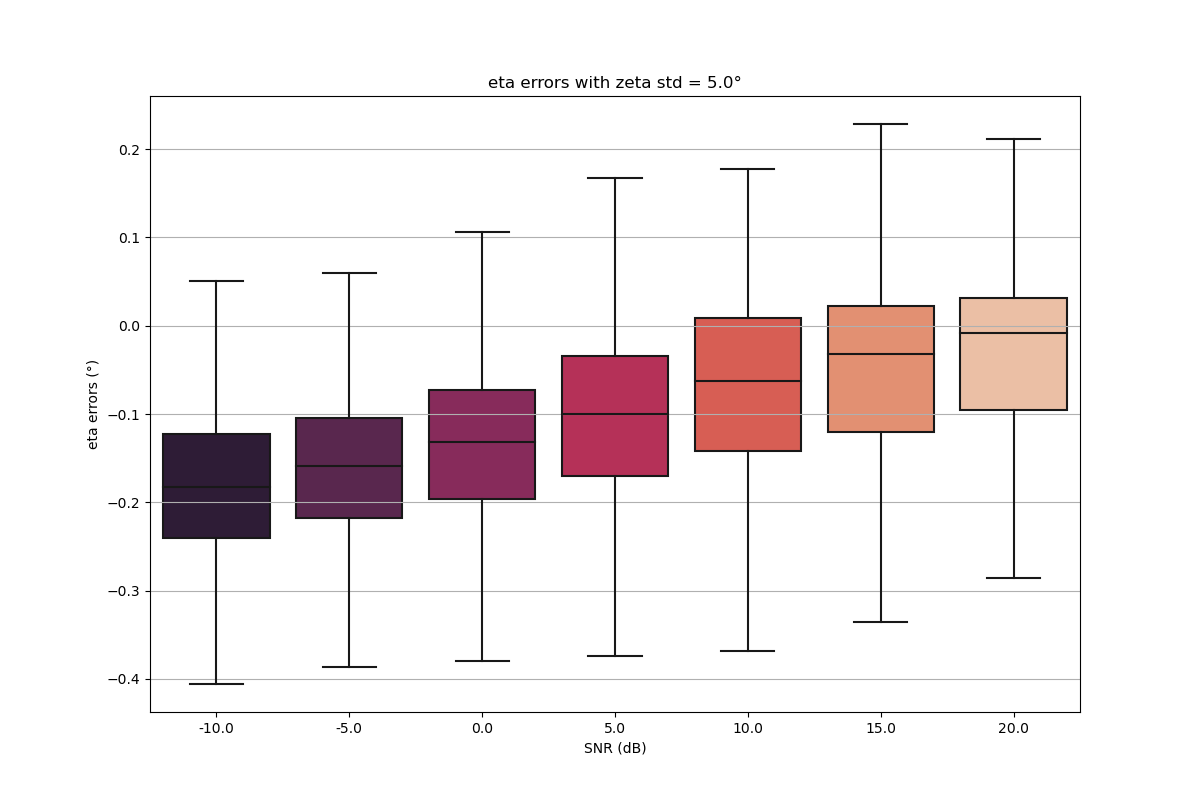
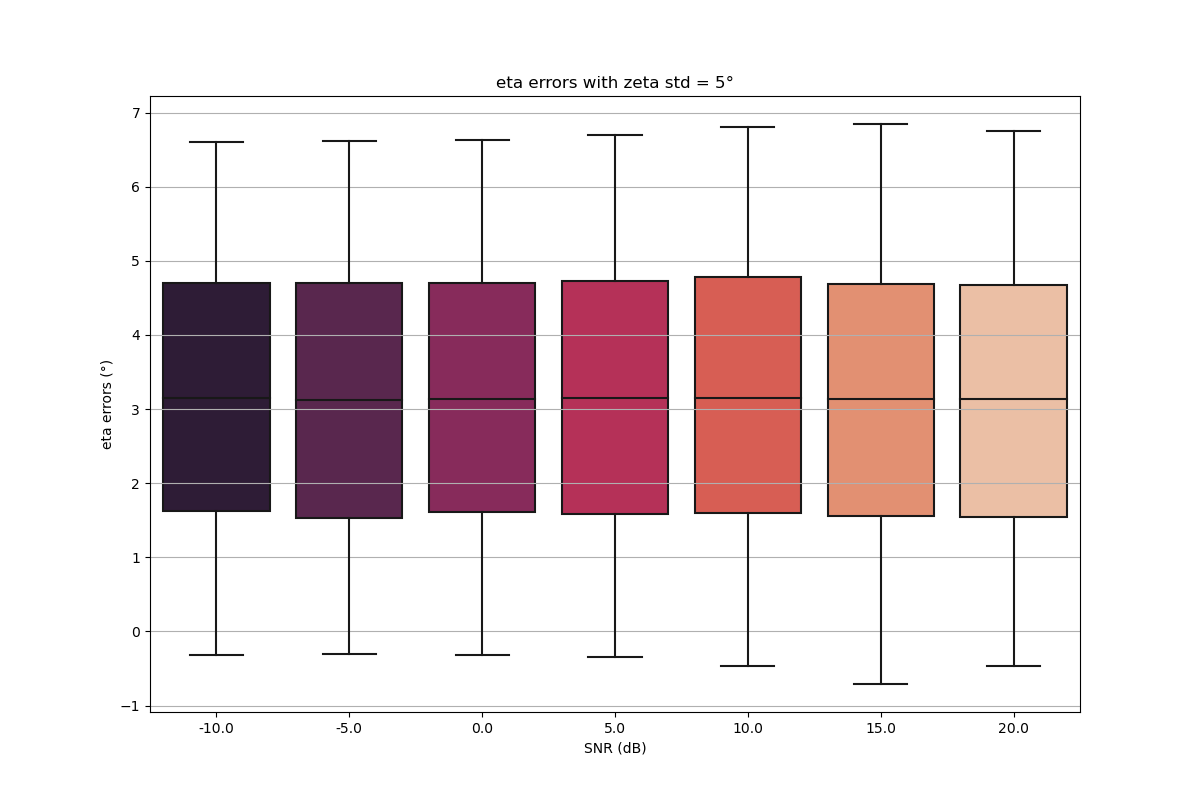
snr estimation

diff --git a/simulation.py b/simulation.py
@@ -1,6 +1,7 @@
 import numpy as np
 import matplotlib.pyplot as plt
 import seaborn as sns
+from tqdm import tqdm
 
 def solve_system(noise, zeta_std, phase_std, zetas, phases, T=0.27*10**(-3), l=0.005):
     """
@@ -60,7 +61,7 @@ def boxplot_plot(errors, xlabel, ylabel, xticks, title, name=''):
     plt.xticks(np.arange(len(xticks)), xticks)
     plt.title(title)
     plt.savefig('plots/averaged_results/'+name+'.png')
-    plt.show()
+    #plt.show()
 
 def check_system():
     for i in range(10000):
@@ -83,67 +84,70 @@ def get_input(k=1):
     f_d = np.random.uniform(-1000,1000)
     f_off = np.random.normal(100000,10000,2)
     v = np.random.uniform(-5,5)
+    count = 0
     while True:
         check = True
         zetas = np.random.uniform(-np.pi/4,np.pi/4,3)
         eta = np.random.uniform(0,2*np.pi)
-        for z in zetas:
-            if z-(2*eta)<1e-10:
-                check = False
-                #print('problem 1')
-            if z<1e-10:
-                check = False
-                #print('problem 2')
-        if check:
+        phases = get_phases(eta, f_d, v, f_off, zetas, k=k)
+        alpha = (phases[1]-phases[3])*np.cos(zetas[2])
+        delta = phases[2]-phases[1]
+        gamma = (phases[3]-phases[2])*np.cos(zetas[1])
+        if abs(alpha+delta+gamma)<1e-5:
+            check = False
+        if check or count>100000:
             break
-    phases = get_phases(eta, f_d, v, f_off, zetas, k=k)
+        count += 1
     return phases, zetas, eta, f_d, v, k*f_off[0]-(k-1)*f_off[1]
 
-SNR = np.array([-10,-5,0,5,10,15,20])
-N = 10000 # number of simulations
-interval = 100 # number of samples in which variables can be considered constant 
-SNR = np.power(10,SNR/10)
-p_std = np.sqrt(1/(2*256*SNR))
-zeta_std = [1,3,5,7,10]
-for z_std in np.deg2rad(zeta_std):
-    tot_eta_error = []
-    tot_f_d_error = []
-    tot_v_error = []
-    tot_f_off_error = []
-    for phase_std,snr in zip(p_std,SNR):
-        eta_error = []
-        f_d_error = []
-        f_off_error = []
-        v_error = []
-        for i in range(N):
-            phases,zetas,eta,f_d,v,f_off = get_input()
-            etas_n = []
-            f_ds_n = []
-            vs_n = []
-            f_offs_n = []
-            for i in range(interval):
-                eta_n, f_d_n, v_n, f_off_n, alpha_n, delta_n, gamma_n, n_zetas= solve_system(True, z_std, phase_std, zetas, phases)
-                etas_n.append(eta_n[1])
-                f_ds_n.append(f_d_n[0])
-                vs_n.append(v_n[1])
-                f_offs_n.append(f_off_n)
-            eta_error.append(eta-np.mean(etas_n))
-            f_d_error.append(np.sqrt((f_d-np.mean(f_ds_n))**2))
-            v_error.append(v-np.mean(vs_n))
-            f_off_error.append(f_off-np.mean(f_offs_n))
-        tot_eta_error.append(eta_error)
-        tot_f_d_error.append(f_d_error)
-        tot_v_error.append(v_error)
-        tot_f_off_error.append(f_off_error)
-    boxplot_plot(tot_eta_error, "SNR (dB)", "eta errors (°)", 10*np.log10(SNR), "eta errors with zeta std = " + str(np.rad2deg(z_std)) + "°", 'eta_errors_zeta_std' + str(np.round(np.rad2deg(z_std),1)))
-    boxplot_plot(tot_f_d_error, "SNR (dB)", "frequency Doppler errors (Hz)", 10*np.log10(SNR), "frequency Doppler errors with zeta std = " + str(np.rad2deg(z_std)) + "°", 'fd_errors_zeta_std' + str(np.round(np.rad2deg(z_std),1)))
+if __name__=='__main__':
 
-print('eta mean error: ' + str(np.mean(eta_error)))
-print('Doppler mean error: ' + str(np.mean(f_d_error)))
-print('speed mean error: ' + str(np.mean(v_error)))
-print('frequency offset mean error: ' + str(np.mean(f_off_error)))
+    SNR = np.array([-10,-5,0,5,10,15,20])
+    N = 10000 # number of simulations
+    interval = 100 # number of samples in which variables can be considered constant 
+    SNR = np.power(10,SNR/10)
+    p_std = np.sqrt(1/(2*256*SNR))
+    zeta_std = [1,3,5,7,10]
+    for z_std in np.deg2rad(zeta_std):
+        tot_eta_error = []
+        tot_f_d_error = []
+        tot_v_error = []
+        tot_f_off_error = []
+        print('zeta std: ' + str(round(np.rad2deg(z_std))))
+        for phase_std,snr in zip(p_std,SNR):
+            eta_error = []
+            f_d_error = []
+            f_off_error = []
+            v_error = []
+            for i in tqdm(range(N)):
+                phases,zetas,eta,f_d,v,f_off = get_input()
+                etas_n = []
+                f_ds_n = []
+                vs_n = []
+                f_offs_n = []
+                for i in range(interval):
+                    eta_n, f_d_n, v_n, f_off_n, alpha_n, delta_n, gamma_n, n_zetas= solve_system(True, z_std, phase_std, zetas, phases)
+                    etas_n.append(eta_n[1])
+                    f_ds_n.append(f_d_n[0])
+                    vs_n.append(v_n[1])
+                    f_offs_n.append(f_off_n)
+                eta_error.append(eta-np.mean(etas_n))
+                f_d_error.append(np.sqrt((f_d-np.mean(f_ds_n))**2))
+                v_error.append(v-np.mean(vs_n))
+                f_off_error.append(f_off-np.mean(f_offs_n))
+            tot_eta_error.append(eta_error)
+            tot_f_d_error.append(f_d_error)
+            tot_v_error.append(v_error)
+            tot_f_off_error.append(f_off_error)
+        boxplot_plot(tot_eta_error, "SNR (dB)", "eta errors (°)", 10*np.log10(SNR), "eta errors with zeta std = " + str(round(np.rad2deg(z_std))) + "°", 'eta_errors_zeta_std' + str(np.round(np.rad2deg(z_std),1)))
+        boxplot_plot(tot_f_d_error, "SNR (dB)", "frequency Doppler errors (Hz)", 10*np.log10(SNR), "frequency Doppler errors with zeta std = " + str(round(np.rad2deg(z_std))) + "°", 'fd_errors_zeta_std' + str(np.round(np.rad2deg(z_std),1)))
 
-# print('eta: ' + str(eta_n) + '  real eta: ' + str(eta))
-# print('Doppler: ' + str(f_d_n) + '  real Doppler: ' + str(f_d))
-# print('speed: ' + str(v_n) + '  real speed: ' + str(v))
-# print('frequency offset: ' + str(f_off_n) + '  real frequency offset: ' + str(f_off))
+    print('eta mean error: ' + str(np.mean(eta_error)))
+    print('Doppler mean error: ' + str(np.mean(f_d_error)))
+    print('speed mean error: ' + str(np.mean(v_error)))
+    print('frequency offset mean error: ' + str(np.mean(f_off_error)))
+
+    # print('eta: ' + str(eta_n) + '  real eta: ' + str(eta))
+    # print('Doppler: ' + str(f_d_n) + '  real Doppler: ' + str(f_d))
+    # print('speed: ' + str(v_n) + '  real speed: ' + str(v))
+    # print('frequency offset: ' + str(f_off_n) + '  real frequency offset: ' + str(f_off))

diff --git a/cir_estimation_sim/cir_sim.py b/cir_estimation_sim/cir_sim.py
@@ -2,9 +2,9 @@ from pathlib import Path
 import numpy as np
 import scipy as sp
 from scipy.io import loadmat
-import h5py
+#import h5py
 import matplotlib.pyplot as plt
-from utils import *
+#from utils import *
 import pickle
 import tqdm
 from scipy.signal import correlate, correlation_lags
@@ -134,6 +134,23 @@ def gen_noise(n, params):
     return noise
 
 
+def get_snr(h, h_n):
+    """
+        compute the SNR after the channel [dB].
+        h: real channel impulse response.
+        h_n:  noisy (estimated) channel impulse response.
+    """
+    h = h[:100]
+    h_n = h_n[:100]
+    h = h / np.max(np.abs(h))
+    h_n = h_n / np.max(np.abs(h_n))
+    ind = np.argmax(np.abs(h))
+    signal_p = np.var(h)
+    noise_p = np.mean(np.abs(h_n[ind]-h[ind])**2)
+    snr = signal_p/noise_p
+    return 10*np.log10(snr)
+
+
 if __name__ == "__main__":
     params = {
         "A_signal": 1,
@@ -150,7 +167,8 @@ if __name__ == "__main__":
         "TO": 1.6 * 1 / 1.76e9,
         "CFO": np.pi,
         "TOstd": 20,
-        "simlen": 1000,
+        "simlen": 10000,
+        "plot": False,
     }
 
     path = Path("cir_estimation_sim")
@@ -159,11 +177,12 @@ if __name__ == "__main__":
     signal = params["A_signal"] * np.pad(trn, params["cir_bins"])[params["cir_bins"] :]
     Ga, Gb = load_Golay_seqs(path)
 
-    snrlist = [5, 10]
-
+    snrlist = [0, 5, 10, 15]
+    g = np.zeros(len(snrlist))
     for k, s in enumerate(snrlist):
         print("####################################")
         print(f"Simulating SNR = {s}")
+        temp_g = []
         for i in range(params["simlen"]):
             print("iteration: ", i, end="\r")
 
@@ -187,10 +206,10 @@ if __name__ == "__main__":
             params["amplitudes"][0] = (wavelength / 4 * np.pi) / (params["ranges"][0])
 
             params["TO"] = (
-                -np.random.uniform(0, params["TOstd"]) * params["dtau"]
+                0#-np.random.uniform(0, params["TOstd"]) * params["dtau"]
             )  # off-grid
 
-            params["CFO"] = np.random.uniform(0, 0.5)
+            params["CFO"] = 0#np.random.uniform(0, 0.5)
 
             params["SNR"] = s
 
@@ -211,26 +230,32 @@ if __name__ == "__main__":
 
             h_est_clean = estimate_CIR(y_clean, Ga, Gb)
             h_est_off = estimate_CIR(y_off, Ga, Gb)
+            
+            after_channel_snr = get_snr(true_h_off, h_est_off)
+            temp_g.append(10**((after_channel_snr-s)/10)) # linear gain
 
             # example plots
-            fig, ax = plt.subplots(1, 2)
-            ax[0].plot(
-                np.abs(true_h_clean) / np.max(np.abs(true_h_clean)), label="True"
-            )
-            ax[0].plot(
-                np.abs(h_est_clean) / np.max(np.abs(h_est_clean)), label="Estimated"
-            )
-            ax[0].set_title("Clean")
-            ax[0].set_xlabel("Delay bins")
-            ax[0].set_ylabel("CIR magnitude")
-            ax[0].legend()
+            if params["plot"]:
+                fig, ax = plt.subplots(1, 2)
+                ax[0].plot(
+                    np.abs(true_h_clean) / np.max(np.abs(true_h_clean)), label="True"
+                )
+                ax[0].plot(
+                    np.abs(h_est_clean) / np.max(np.abs(h_est_clean)), label="Estimated"
+                )
+                ax[0].set_title("Clean")
+                ax[0].set_xlabel("Delay bins")
+                ax[0].set_ylabel("CIR magnitude")
+                ax[0].legend()
 
-            ax[1].plot(np.abs(true_h_off) / np.max(np.abs(true_h_off)), label="True")
-            ax[1].plot(np.abs(h_est_off) / np.max(np.abs(h_est_off)), label="Estimated")
-            ax[1].set_title("With offset")
-            ax[1].set_xlabel("Delay bins")
-            ax[1].set_ylabel("CIR magnitude")
-            ax[1].legend()
+                ax[1].plot(np.abs(true_h_off) / np.max(np.abs(true_h_off)), label="True")
+                ax[1].plot(np.abs(h_est_off) / np.max(np.abs(h_est_off)), label="Estimated")
+                ax[1].set_title("With offset")
+                ax[1].set_xlabel("Delay bins")
+                ax[1].set_ylabel("CIR magnitude")
+                ax[1].legend()
 
-            plt.tight_layout()
-            plt.show()
+                plt.tight_layout()
+                plt.show()
+        g[k] = np.mean(temp_g)
+        print('Average linear gain after the channel : ' + str(g[k]))

diff --git a/conditions.py b/conditions.py
@@ -1,0 +1,44 @@
+import numpy as np
+from simulation import get_phases
+
+def get_input(k=1):
+    """
+    k=1 it represents the discrete time variable, we assume it equal to 1, 
+    but it does not the computation regarding the Doppler frequency.
+    
+    Returns realistic values of: \n measured phases, angle of arrivals, and variables. 
+    """
+    f_d = np.random.uniform(-1000,1000)
+    f_off = np.random.normal(100000,10000,2)
+    v = np.random.uniform(-5,5)
+    while True:
+        check = True
+        zetas = np.random.uniform(-np.pi/4,np.pi/4,3)
+        eta = np.random.uniform(0,2*np.pi)
+        # for z in zetas:
+        #     if z-(2*eta)<1e-10:
+        #         check = False
+        #         #print('problem 1')
+        #     if z<1e-10:
+        #         check = False
+        #         #print('problem 2')
+        if check:
+            break
+    phases = get_phases(eta, f_d, v, f_off, zetas, k=k)
+    return phases, zetas, eta
+
+def solve_system(phases, zetas):      
+    alpha = (phases[1]-phases[3])*np.cos(zetas[2])
+    delta = phases[2]-phases[1]
+    gamma = (phases[3]-phases[2])*np.cos(zetas[1])
+    return alpha, delta, gamma
+
+N = 1000000
+counter = 0
+for i in range(N):
+    phases, zetas, eta = get_input()
+    alpha, delta, gamma = solve_system(phases,zetas)
+    #for z in zetas:
+    if abs(alpha+delta+gamma)<1e-5:
+        counter += 1
+print('The condition is met: ' + str(counter/N))
